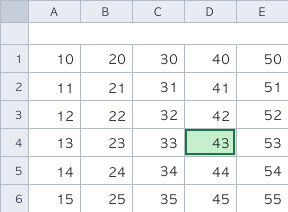
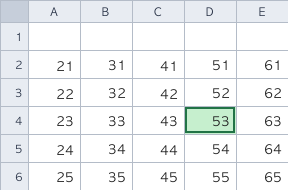
2급 정기 3회 Q28 그리드 수정 및 누락 이미지 추가
Q28: 1행 빈 행·2행부터 데이터, D4 선택, header_h=0. Q22·Q24 보기 이미지 추가.

Changed region(s): [[0.0, 0.0263, 1.0, 0.9737], [0.1562, 0.0263, 0.2188, 0.0789], [0.9062, 0.0263, 0.9375, 0.0789]]

diff --git a/scripts/generate_2gi3_grids.py b/scripts/generate_2gi3_grids.py
@@ -198,6 +198,7 @@ def q26_options() -> None:
 
 
 def q28() -> None:
+    # Row 1 header; data from row 2. Active cell D4 (ri=3, ci=3).
     rows = [
         ["10", "20", "30", "40", "50"],
         ["11", "21", "31", "41", "51"],
@@ -206,7 +207,14 @@ def q28() -> None:
         ["14", "24", "34", "44", "54"],
         ["15", "25", "35", "45", "55"],
     ]
-    img = draw_grid(rows, start_col="A", start_row=1, selected={(3, 3)}, cell_h=28)
+    img = draw_grid(
+        rows,
+        start_col="A",
+        start_row=1,
+        selected={(3, 3)},
+        cell_h=28,
+        header_rows={0},
+    )
     save("2gi3_q28.png", img)
 
 
